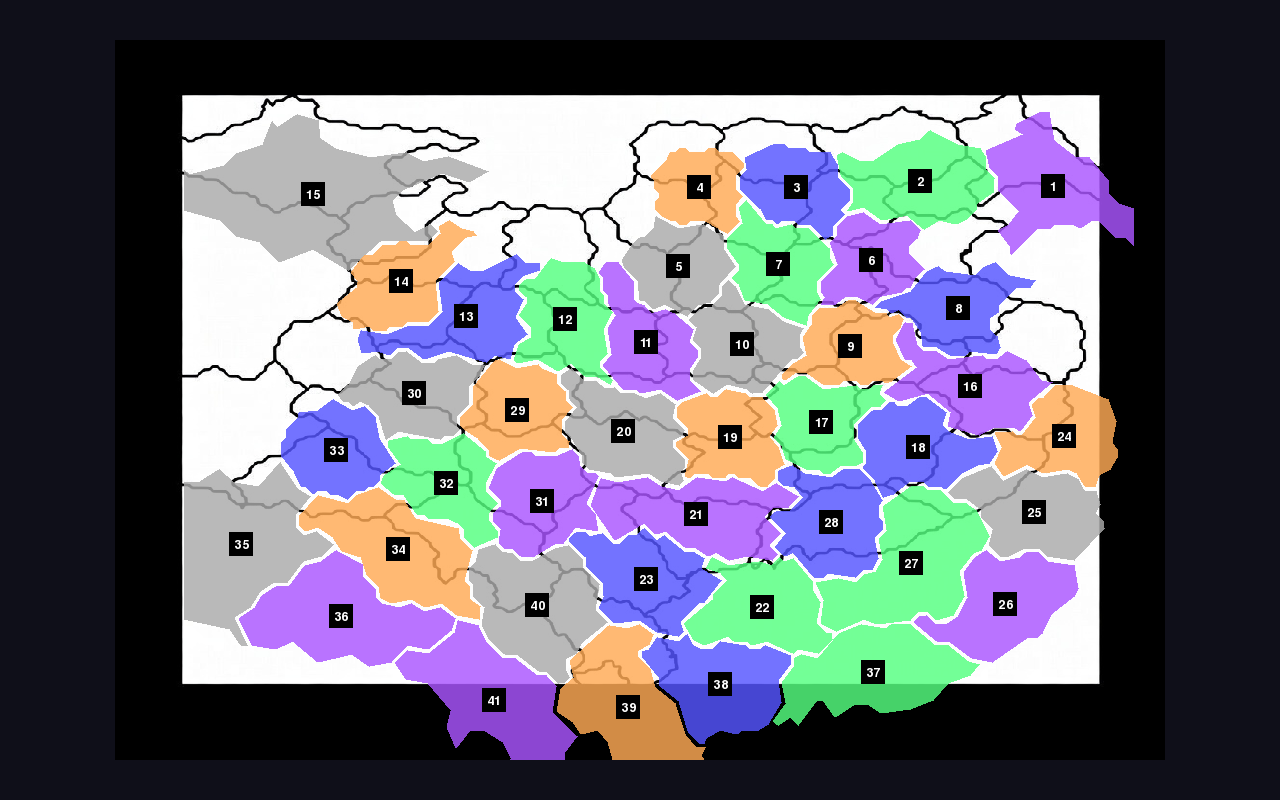
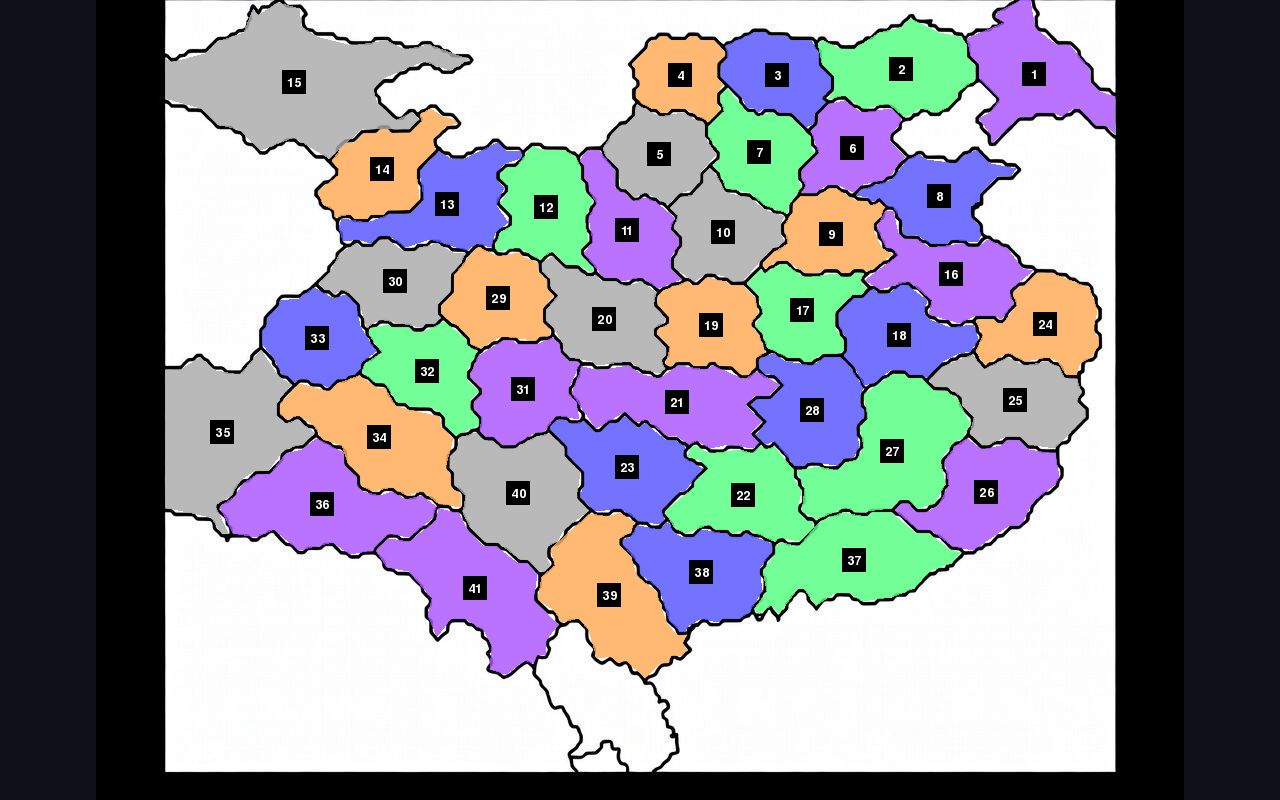
fix(ui/map): restore original map coordinates and size
Restores the map background and province coordinates to their original
coordinate system (1088x944) for improved alignment and accuracy. Removes
scaling logic in MapRenderer and updates map offsets to match the original
layout. This ensures province shapes and background align as intended,
especially for screenshots and cross-platform consistency.

diff --git a/Src/UI/map/map_renderer.py b/Src/UI/map/map_renderer.py
@@ -65,9 +65,10 @@ class MapRenderer:
     NUMBER_TEXT_COLOR = (255, 255, 255)
     NUMBER_BOX_SIZE = (24, 24)
 
-    # Steam Deck optimized dimensions
-    DEFAULT_DESIGN_SIZE: tuple[int, int] = (1050, 720)
-    DEFAULT_MAP_OFFSET: tuple[int, int] = (115, 40)
+    # Steam Deck optimized dimensions - uses original coordinate system
+    # Background is 1088x944, provinces are within it at their original positions
+    DEFAULT_DESIGN_SIZE: tuple[int, int] = (1088, 944)
+    DEFAULT_MAP_OFFSET: tuple[int, int] = (96, -72)  # Center in 1280x800
 
     def __init__(self, design_size: tuple[int, int] | None = None, shapes_file: str | None = None):
         """Initialize the map renderer.
@@ -130,12 +131,9 @@ class MapRenderer:
                 # Headless environment or other issue - load without convert
                 self.terrain_background = pygame.image.load(str(path))
 
-            # Scale to design size if needed
-            bg_width, bg_height = self.terrain_background.get_size()
-            if (bg_width, bg_height) != (self.design_width, self.design_height):
-                self.terrain_background = pygame.transform.scale(
-                    self.terrain_background, (self.design_width, self.design_height)
-                )
+            # Keep background at original size - provinces align with it naturally
+            # The background is 1088x944, same as design_size
+            # No scaling needed since coordinates match the original image
             self._cache_dirty = True
             return True
         except pygame.error as e:

diff --git a/Src/UI/map/map_geometry.py b/Src/UI/map/map_geometry.py
@@ -144,9 +144,9 @@ class ProvinceShapeManager:
 
         self.shapes: dict[int, ProvinceShape] = {}
         self._bounds_index: list[tuple[int, tuple[int, int, int, int]]] = []
-        # Steam Deck optimized dimensions (1280x800)
-        self.map_dimensions = {"width": 1050, "height": 720}
-        self.map_offset = {"x": 115, "y": 40}
+        # Steam Deck optimized dimensions - uses original coordinate system
+        self.map_dimensions = {"width": 1088, "height": 944}
+        self.map_offset = {"x": 96, "y": -72}
 
         if shapes_file is None:
             shapes_file = "data/province_shapes.json"
